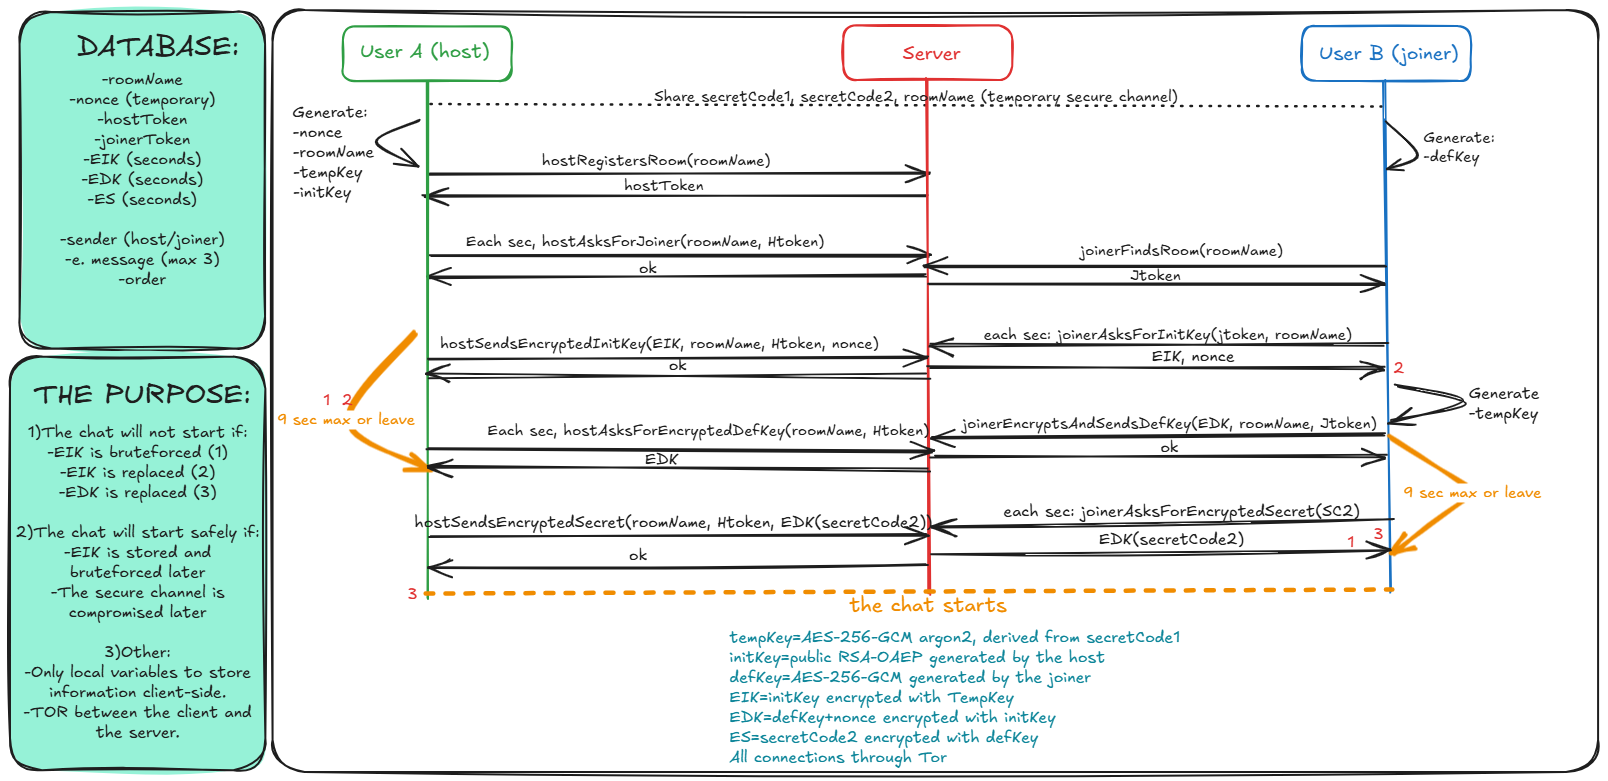
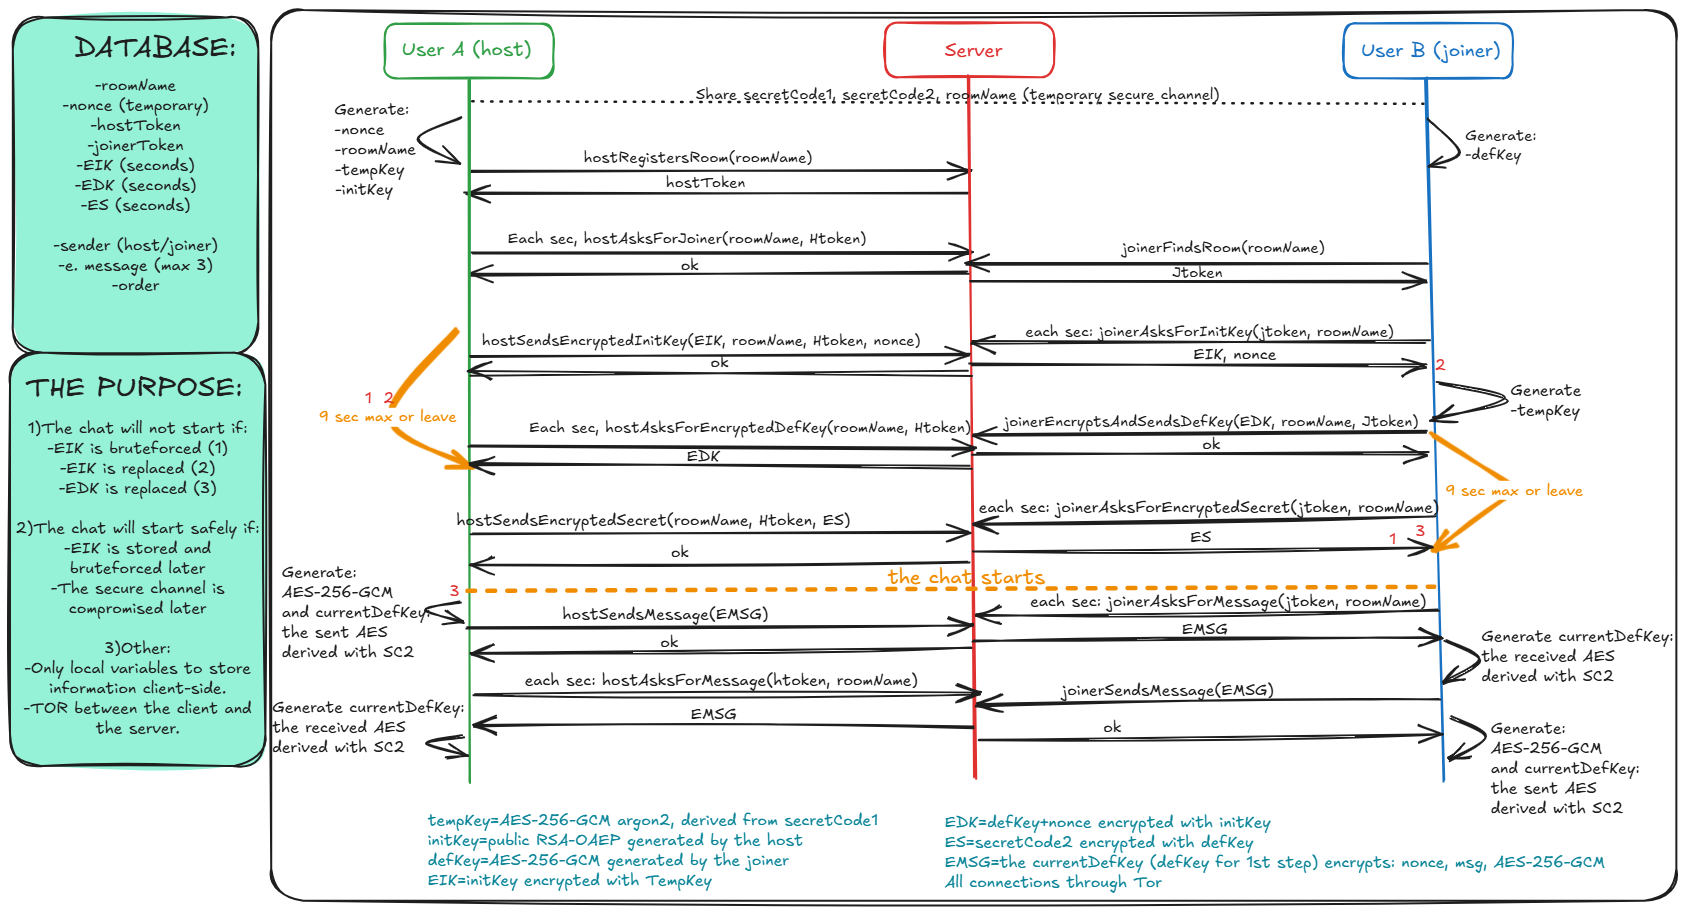
defKey > currentDefKey
Every message now uses a fresh AES-256 key derived with Argon2id from secretCode2. Previous keys are destroyed

Changed region(s): [[0.0, 0.0, 1.0, 1.0]]

diff --git a/front/script.js b/front/script.js
@@ -10,6 +10,9 @@
 7) The host polls every 1.5 s for the defKey encrypted by the initKey. When it arrives it is decrypted, the trailing 16-byte nonce is removed, and the clean defKey is imported. The self-destruct timer is cleared.
 8)The host Encrypts the secretCode2 using the defKey and sends it to the server.
 9)The joiner ask for the encrypted SecretCode2, decrypts it, compares it. If matches, the processus is validated and the joiner timer cleared.
+----the chat starts---
+10)The sender generates an AES + nonce. Encrypts it using currentDefKey (defKey for the first time) and send. Then generate the "next" currentNextDefKey that is the AES derived with the secretCode2
+11)The receiver decrypts using currentDefKey, get the AES, derives it with secretCode2 to generate the next currentDefKey 
 
 
 */
@@ -290,7 +293,6 @@ function app() {
         } catch (error) {
             console.error('Errore nella derivazione della chiave:', error);
             stepsAnimation("tempKey", "host", "failed")
-
             throw error;
         }
     }
@@ -616,114 +618,114 @@ function app() {
 
 
     // 6) The joiner starts a self-destruct timer, encrypts the defKey + random nonce using the decrypted initKey and sends it to the server.
-async function joinerEncryptsAndSendsDefKey() {
-    try {
-        stepsAnimation("defKey", "joiner", "completed");
-        // Export defKey as raw (ArrayBuffer)
-        const defKeyRaw = await crypto.subtle.exportKey('raw', defKey);
-        // Generate a secure random nonce (16 bytes = 128 bits)
-        const nonce = crypto.getRandomValues(new Uint8Array(16));
-        // Concatenate defKey + nonce
-        const defKeyWithNonce = new Uint8Array(defKeyRaw.byteLength + nonce.byteLength);
-        defKeyWithNonce.set(new Uint8Array(defKeyRaw), 0);
-        defKeyWithNonce.set(nonce, defKeyRaw.byteLength);
-        // Encrypt the combined buffer with RSA-OAEP
-        const encrypted = await crypto.subtle.encrypt(
-            { name: 'RSA-OAEP' },
-            initKeyCrypto,
-            defKeyWithNonce
-        );
-        // Convert to base64
-        const base64EncryptedDefKey = btoa(String.fromCharCode(...new Uint8Array(encrypted)));
-        showBorderEffect("joiner", "defKeyImgContainer");
-        // Send to server
-        await fetch('http://localhost:3001/api/joinerSendsEncryptedDefKey', {
+    async function joinerEncryptsAndSendsDefKey() {
+        try {
+            stepsAnimation("defKey", "joiner", "completed");
+            // Export defKey as raw (ArrayBuffer)
+            const defKeyRaw = await crypto.subtle.exportKey('raw', defKey);
+            // Generate a secure random nonce (16 bytes = 128 bits)
+            const nonce = crypto.getRandomValues(new Uint8Array(16));
+            // Concatenate defKey + nonce
+            const defKeyWithNonce = new Uint8Array(defKeyRaw.byteLength + nonce.byteLength);
+            defKeyWithNonce.set(new Uint8Array(defKeyRaw), 0);
+            defKeyWithNonce.set(nonce, defKeyRaw.byteLength);
+            // Encrypt the combined buffer with RSA-OAEP
+            const encrypted = await crypto.subtle.encrypt(
+                { name: 'RSA-OAEP' },
+                initKeyCrypto,
+                defKeyWithNonce
+            );
+            // Convert to base64
+            const base64EncryptedDefKey = btoa(String.fromCharCode(...new Uint8Array(encrypted)));
+            showBorderEffect("joiner", "defKeyImgContainer");
+            // Send to server
+            await fetch('http://localhost:3001/api/joinerSendsEncryptedDefKey', {
+                method: 'POST',
+                headers: { 'Content-Type': 'application/json' },
+                body: JSON.stringify({
+                    roomName,
+                    joinerToken,
+                    encryptedDefKey: base64EncryptedDefKey,
+                })
+            });
+            timer("joiner", "start");
+            joinerAsksForEncryptedSecret();
+        } catch (error) {
+            console.error("Error encrypting defKey:", error);
+            stepsAnimation("defKey", "joiner", "failed");
+        }
+    }
+
+
+
+    /* 7) The host polls every 1.5 s for the defKey encrypted by the initKey. When it arrives it is decrypted, the trailing 16-byte nonce is removed, and the clean defKey is imported. The self-destruct timer is cleared.*/
+    function hostAsksForEncryptedDefKey() {
+        fetch('http://localhost:3001/api/hostAsksForEncryptedDefKey', {
             method: 'POST',
             headers: { 'Content-Type': 'application/json' },
             body: JSON.stringify({
-                roomName,
-                joinerToken,
-                encryptedDefKey: base64EncryptedDefKey,
+                roomName: roomName,
+                hostToken: hostToken
             })
-        });
-        timer("joiner", "start");
-        joinerAsksForEncryptedSecret();
-    } catch (error) {
-        console.error("Error encrypting defKey:", error);
-        stepsAnimation("defKey", "joiner", "failed");
-    }
-}
-
-
-
-  /* 7) The host polls every 1.5 s for the defKey encrypted by the initKey. When it arrives it is decrypted, the trailing 16-byte nonce is removed, and the clean defKey is imported. The self-destruct timer is cleared.*/
-function hostAsksForEncryptedDefKey() {
-    fetch('http://localhost:3001/api/hostAsksForEncryptedDefKey', {
-        method: 'POST',
-        headers: { 'Content-Type': 'application/json' },
-        body: JSON.stringify({
-            roomName: roomName,
-            hostToken: hostToken
         })
-    })
-    .then(response => {
-        if (response.status === 404) {
-            return response.json().then(data => {
-                console.log(data.error); // "defKey not ready"
-                setTimeout(hostAsksForEncryptedDefKey, 1500);
+            .then(response => {
+                if (response.status === 404) {
+                    return response.json().then(data => {
+                        console.log(data.error); // "defKey not ready"
+                        setTimeout(hostAsksForEncryptedDefKey, 1500);
+                    });
+                }
+                if (!response.ok) {
+                    stepsAnimation("defKey", "host", "failed");
+                    throw new Error(`HTTP ${response.status}`);
+                }
+                return response.json();
+            })
+            .then(data => {
+                hostDecryptsDefKey(data.encryptedDefKey);
+                showBorderEffect("host", "defKeyImgContainer");
+            })
+            .catch(error => {
+                console.error('Error requesting defKey:', error);
             });
-        }
-        if (!response.ok) {
-            stepsAnimation("defKey", "host", "failed");
-            throw new Error(`HTTP ${response.status}`);
-        }
-        return response.json();
-    })
-    .then(data => {
-        hostDecryptsDefKey(data.encryptedDefKey);
-        showBorderEffect("host", "defKeyImgContainer");
-    })
-    .catch(error => {
-        console.error('Error requesting defKey:', error);
-    });
-}
-
-// Decrypt the ciphertext, strip the trailing 16-byte nonce and import the AES key.
-async function hostDecryptsDefKey(base64EncryptedDefKey) {
-    try {
-        // 1. base64 → Uint8Array
-        const encryptedData = Uint8Array.from(
-            atob(base64EncryptedDefKey),
-            c => c.charCodeAt(0)
-        );
-        // 2. RSA-OAEP decryption (returns defKey || nonce)
-        const decryptedWithNonce = await crypto.subtle.decrypt(
-            { name: 'RSA-OAEP' },
-            keyPair.privateKey,
-            encryptedData
-        );
-        // 3. Convert to Uint8Array and drop the last 16 bytes
-        const fullArray = new Uint8Array(decryptedWithNonce);
-        const NONCE_LENGTH = 16;
-        if (fullArray.byteLength <= NONCE_LENGTH) {
-            throw new Error('Decrypted payload too short – missing nonce');
-        }
-        const defKeyRaw = fullArray.slice(0, -NONCE_LENGTH);
-        defKey = await crypto.subtle.importKey(
-            'raw',
-            defKeyRaw,
-            { name: 'AES-GCM' },
-            false,
-            ['encrypt', 'decrypt']
-        );
-        timer("host", "stop");
-        hostEncryptsTheSecret(defKey);
-        stepsAnimation("validated", "host", "completed");
-    } catch (error) {
-        console.error('Decryption/import error:', error);
-        stepsAnimation("defKey", "host", "failed");
     }
-}
+
+    // Decrypt the ciphertext, strip the trailing 16-byte nonce and import the AES key.
+    async function hostDecryptsDefKey(base64EncryptedDefKey) {
+        try {
+            // 1. base64 → Uint8Array
+            const encryptedData = Uint8Array.from(
+                atob(base64EncryptedDefKey),
+                c => c.charCodeAt(0)
+            );
+            // 2. RSA-OAEP decryption (returns defKey || nonce)
+            const decryptedWithNonce = await crypto.subtle.decrypt(
+                { name: 'RSA-OAEP' },
+                keyPair.privateKey,
+                encryptedData
+            );
+            // 3. Convert to Uint8Array and drop the last 16 bytes
+            const fullArray = new Uint8Array(decryptedWithNonce);
+            const NONCE_LENGTH = 16;
+            if (fullArray.byteLength <= NONCE_LENGTH) {
+                throw new Error('Decrypted payload too short – missing nonce');
+            }
+            const defKeyRaw = fullArray.slice(0, -NONCE_LENGTH);
+            defKey = await crypto.subtle.importKey(
+                'raw',
+                defKeyRaw,
+                { name: 'AES-GCM' },
+                false,
+                ['encrypt', 'decrypt']
+            );
+            timer("host", "stop");
+            hostEncryptsTheSecret(defKey);
+            stepsAnimation("validated", "host", "completed");
+        } catch (error) {
+            console.error('Decryption/import error:', error);
+            stepsAnimation("defKey", "host", "failed");
+        }
+    }
 
     //8)The host Encrypts the secretCode2 using the defKey and sends it to the server.
     async function hostEncryptsTheSecret() {
@@ -758,6 +760,7 @@ async function hostDecryptsDefKey(base64EncryptedDefKey) {
 
 
     function hostSendsEncryptedSecret(base64EncryptedSecret) {
+        currentDefKey = defKey;
         fetch('http://localhost:3001/api/hostSendsEncryptedSecret', {
             method: 'POST',
             headers: { 'Content-Type': 'application/json' },
@@ -841,6 +844,7 @@ async function hostDecryptsDefKey(base64EncryptedDefKey) {
             stepsAnimation("chat", "joiner", "completed")
             timer("joiner", "stop")
             alert("host is certified!")
+            currentDefKey = defKey
             setTimeout(() => {
                 updateDynamicElements("chatPage")
                 if (!joinerGetsMsgInterval) {
@@ -862,6 +866,8 @@ async function hostDecryptsDefKey(base64EncryptedDefKey) {
 
     let joinerGetsMsgInterval = null
     let hostGetsMsgInterval = null
+    let currentDefKey = null
+
 
     document.getElementById("sendMsgBtn").addEventListener("click", encryptTheMessage)
     document.getElementById("destroyChatBtn").addEventListener("click", deleteRoom)
@@ -943,7 +949,7 @@ async function hostDecryptsDefKey(base64EncryptedDefKey) {
                     message: base64EncryptedMsg
                 })
             });
-            if (res.status == "403") {
+            if (response.status == "403") {
                 alert("This chat is lost or deleted.")
                 location.reload()
                 return false
@@ -976,7 +982,7 @@ async function hostDecryptsDefKey(base64EncryptedDefKey) {
                     message: base64EncryptedMsg
                 })
             });
-            if (res.status == "403") {
+            if (response.status == "403") {
                 alert("This chat is lost or deleted.")
                 location.reload()
                 return false
@@ -996,8 +1002,29 @@ async function hostDecryptsDefKey(base64EncryptedDefKey) {
             return false;
         }
     }
+    async function deriveNextCurrentDefKey(passwordRaw, saltString) {
+        const passwordBuffer = passwordRaw;
+        const saltBuffer = new TextEncoder().encode(saltString);
+        const hash = await argon2.hash({
+            pass: passwordBuffer,
+            salt: saltBuffer,
+            time: 3,
+            mem: 32768,
+            hashLen: 32,
+            parallelism: 1,
+            type: argon2.Argon2id
+        });
+        return await crypto.subtle.importKey(
+            'raw',
+            hash.hash,
+            { name: 'AES-GCM' },
+            false,
+            ['encrypt', 'decrypt']
+        );
+    }
 
     async function encryptTheMessage() {
+        console.log(secretCode2)
         let message = document.getElementById("messageInput").value
         if (message == "") {
             alert("The message is empty.")
@@ -1005,28 +1032,40 @@ async function hostDecryptsDefKey(base64EncryptedDefKey) {
         }
         try {
             showMsg(message, "me")
-            // Convert secret (string) to ArrayBuffer
+            // Generate a new AES (first step to get the currentDefKey)
+            const nextAesKey = await crypto.subtle.generateKey(
+                { name: "AES-GCM", length: 256 },
+                true,
+                ["encrypt", "decrypt"]
+            );
             const encoder = new TextEncoder();
             const msgData = encoder.encode(message);
+            const nextAesRaw = new Uint8Array(await crypto.subtle.exportKey("raw", nextAesKey));
+            const fullPayload = new Uint8Array(msgData.byteLength + 32);
+            fullPayload.set(msgData, 0);
+            fullPayload.set(new Uint8Array(nextAesRaw), msgData.byteLength)
+            // Convert secret (string) to ArrayBuffer
             const nonce = crypto.getRandomValues(new Uint8Array(12));
-            // Encrypt with defKey (AES-GCM)
+            // Encrypt with currentDefKey (AES-GCM)
             const encrypted = await crypto.subtle.encrypt(
                 { name: 'AES-GCM', iv: nonce },
-                defKey,
-                msgData
+                currentDefKey,
+                fullPayload
             );
             // Concatenate nonce + ciphertext
             const result = new Uint8Array(nonce.byteLength + encrypted.byteLength);
             result.set(nonce, 0);
             result.set(new Uint8Array(encrypted), nonce.byteLength);
             // Convert to base64 for sending
-            const base64EncryptedMsg = btoa(String.fromCharCode(...result));
+            const base64EncryptedMsg = btoa(String.fromCharCode(...new Uint8Array(result)));
             if (userName == "host") {
-                hostSendsMessage(base64EncryptedMsg)
+                await hostSendsMessage(base64EncryptedMsg)
             }
             else if (userName == "joiner") {
-                joinerSendsMessage(base64EncryptedMsg)
+                await joinerSendsMessage(base64EncryptedMsg)
             }
+            currentDefKey = await deriveNextCurrentDefKey(nextAesRaw, secretCode2)
+
         } catch (error) {
             console.error(error);
         }
@@ -1039,15 +1078,20 @@ async function hostDecryptsDefKey(base64EncryptedDefKey) {
             // Extract nonce (first 12 bytes) and ciphertext (remaining bytes)
             const nonce = encryptedWithNonce.slice(0, 12);
             const ciphertext = encryptedWithNonce.slice(12);
-            // Decrypt using defKey and the extracted nonce
+            // Decrypt using currentDefKey and the extracted nonce
             const decrypted = await crypto.subtle.decrypt(
                 { name: 'AES-GCM', iv: nonce },
-                defKey,
+                currentDefKey,
                 ciphertext
             );
+            const full = new Uint8Array(decrypted);
+            const msgLength = full.byteLength - 32;
+            const msgBytes = full.slice(0, msgLength);
+            const nextAesRaw = new Uint8Array(full.slice(msgLength));
             // Convert decrypted ArrayBuffer to string
-            const msg = new TextDecoder().decode(decrypted);
+            const msg = new TextDecoder().decode(msgBytes);
             showMsg(msg, "partner")
+            currentDefKey = await deriveNextCurrentDefKey(nextAesRaw, secretCode2)
         } catch (error) {
             console.error(error);
             throw error;

diff --git a/readme.md b/readme.md
@@ -29,6 +29,9 @@ The **temporarily secure external channel** should not be compromised until the 
 7)The host polls every 1.5 s for the defKey encrypted by the initKey. When it arrives it is decrypted, the trailing 16-byte nonce is removed, and the clean defKey is imported. The self-destruct timer is cleared.
 8)The host Encrypts the secretCode2 using the defKey and sends it to the server.
 9)The joiner ask for the encrypted SecretCode2, decrypts it, compares it. If matches, the processus is validated and the joiner timer cleared.
+----the chat starts---
+10)The sender generates an AES + nonce. Encrypts it using currentDefKey (defKey for the first time) and send. Then generate the "next" currentNextDefKey that is the AES derived with the secretCode2
+11)The receiver decrypts using currentDefKey, get the AES, derives it with secretCode2 to generate the next currentDefKey 
 
 
    ## Backend
